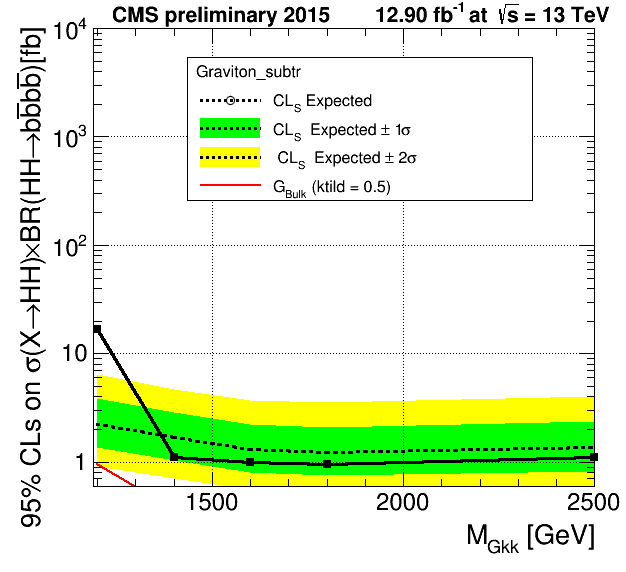
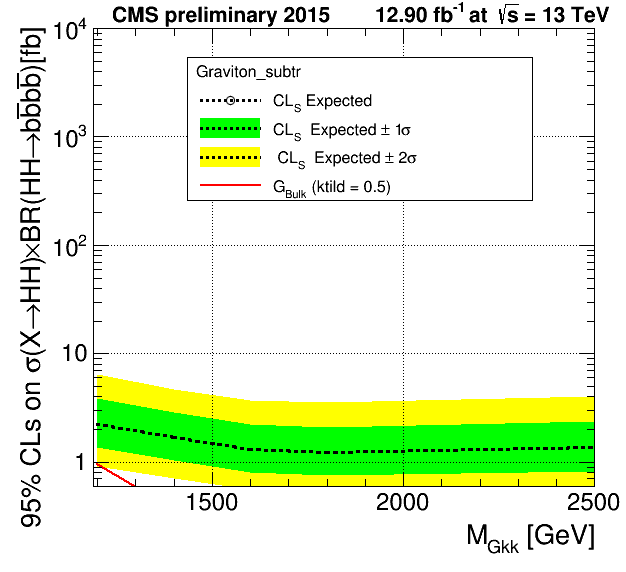
final v2

diff --git a/BumpSearchLimitCode/plot_Asymptotic_HHbbbb.C b/BumpSearchLimitCode/plot_Asymptotic_HHbbbb.C
@@ -15,10 +15,12 @@
 #include "TLegend.h"
 #include "TStyle.h"
 #include "TPaveText.h"
-#define nXm 6
-#define nXm_thr 6
+//#define nXm 6
+//#define nXm_thr 6
+#define nXm 5                                                                                                   
+#define nXm_thr 5
 
-const float intLumi = 2.69;
+const float intLumi = 12.9;
 const string dirXSect = "./";
 
 // 10 = radion_2cat, 11 = radion_4btag_cat0, 12 = radion_3btag_HPHP_cat1 
@@ -132,8 +134,10 @@ void plot_Asymptotic_HHbbbb(string outputdir, int sigHyp, int subtr)
   TFile *fFREQ[nXm];
   TTree *t[nXm];
   //  int Xmass[nXm]={1200,1300,1400,1500,1600,1700,1800,1900,2000,2100,2200,2300,2400,2500};  
-  int Xmass_thr[nXm_thr]={1200,1400,1600,1800,2000,2500};  
-  int Xmass[nXm]={1200,1400,1600,1800,2000,2500};  
+  //int Xmass_thr[nXm_thr]={1200,1400,1600,1800,2000,2500};
+  //int Xmass[nXm]={1200,1400,1600,1800,2000,2500};
+  int Xmass_thr[nXm_thr]={1200,1400,1600,1800,2500};  
+  int Xmass[nXm]={1200,1400,1600,1800,2500};  
   vector<double> v_mh, v_median, v_68l, v_68h, v_95l, v_95h, v_obs;
  
  
@@ -387,7 +391,7 @@ void plot_Asymptotic_HHbbbb(string outputdir, int sigHyp, int subtr)
   grthSM->Draw("L3");
   grmedian_cls->Draw("L");
   // observed limit
-  grobslim_cls->Draw("LP");
+  //grobslim_cls->Draw("LP");
 
   /*
   TFile *fUnMPlus=new TFile("AsymptoticCLs_UnmatchedPlus_TGraph.root","READ");
